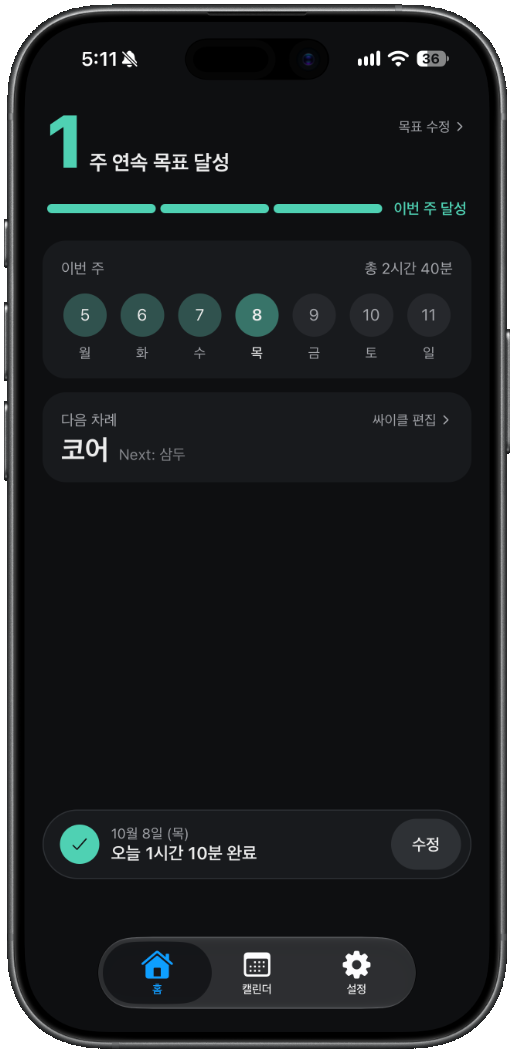
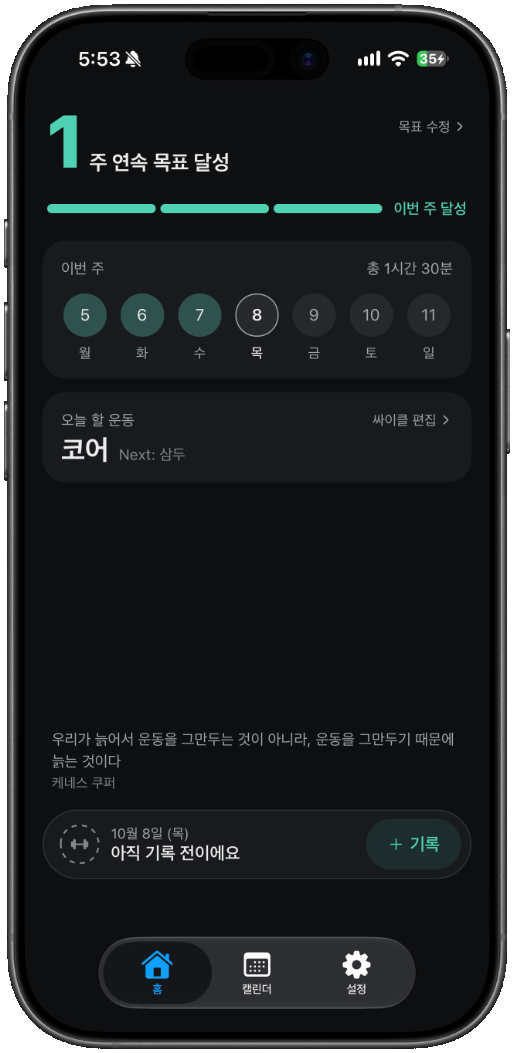
feat : README 파일 변경

diff --git a/README.md b/README.md
@@ -37,137 +37,80 @@
 운동 기록 앱은 대부분 세트, 무게, 횟수까지 입력해야 해서 며칠 쓰다 보면 기록 자체가 귀찮아집니다.
 스탬핏은 **"오늘 운동했는지"** 에만 집중합니다. 운동한 부위와 시간만 고르면 기록이 끝나고, 그날 캘린더에 도장이 찍힙니다.
 
-- 기록 항목은 부위, 부위별 시간, 강도, 컨디션, 메모가 전부입니다.
-- 주간 목표를 정하면 목표를 채운 주가 연속으로 이어지는지 보여줍니다.
-- 오프라인에서도 바로 기록되고, 온라인 연결 시 로그인한 계정으로 서버에 동기화됩니다.
-- iOS / Android 홈 화면 위젯을 지원합니다.
-
 <br />
 
 ## 주요 기능
 
-### 1. 3초 기록과 도장
+### 1. 10초 기록과 도장
 
-<table>
-  <tr>
-    <td align="center"><img src="./docs/screenshots/record.png" width="220" /></td>
-    <td align="center"><img src="./docs/screenshots/record-done.png" width="220" /></td>
-  </tr>
-  <tr>
-    <td align="center">부위 · 시간 · 강도 · 컨디션 입력</td>
-    <td align="center">저장하면 DONE 도장</td>
-  </tr>
-</table>
+<p align="center">
+  <img src="./docs/captioned/record.png" width="220" />&nbsp;&nbsp;
+  <img src="./docs/captioned/record-done.png" width="220" />
+</p>
 
-- 부위 칩을 여러 개 고르고, 부위마다 시간을 따로 기록 (빠른 선택 10~90분, ±5분 조절)
-- 강도 1~5단계, 컨디션 5단계 이모지, 자유 메모
-- 날짜당 기록 1건. 이미 기록한 날을 열면 수정 화면으로 열림
-- 저장 순간 도장이 찍히는 애니메이션 (react-native-svg + Reanimated)
+- 부위를 고르고 부위마다 시간만 정하면 기록이 끝납니다.
+- 저장하는 순간 그날 캘린더에 도장이 찍히는 효과가 나옵니다.
 
 ### 2. 홈 — 주간 목표와 연속 달성
 
-<table>
-  <tr>
-    <td align="center"><img src="./docs/screenshots/home.png" width="200" /></td>
-    <td align="center"><img src="./docs/screenshots/home-done.png" width="200" /></td>
-    <td align="center"><img src="./docs/screenshots/goal.png" width="200" /></td>
-    <td align="center"><img src="./docs/screenshots/cycle.png" width="200" /></td>
-  </tr>
-  <tr>
-    <td align="center">기록 전</td>
-    <td align="center">기록 후 · 목표 달성</td>
-    <td align="center">주간 목표 설정</td>
-    <td align="center">운동 싸이클</td>
-  </tr>
-</table>
+<p align="center">
+  <img src="./docs/captioned/home.png" width="200" />&nbsp;&nbsp;
+  <img src="./docs/captioned/home-done.png" width="200" />&nbsp;&nbsp;
+  <img src="./docs/captioned/goal.png" width="200" />&nbsp;&nbsp;
+  <img src="./docs/captioned/cycle.png" width="200" />
+</p>
 
-- **주간 목표**: 주 N회 목표를 정하고 "매주 반복" 여부 선택. 목표를 채운 주가 몇 주 연속인지 표시
-- 목표를 바꿔도 지난주는 그 주에 설정했던 목표로 판정 (주별 목표 이력 저장)
-- **운동 싸이클**: 하체 → 가슴 → 등처럼 분할 순서를 정해두면, 기록할 때마다 다음 단계로 넘어가며 오늘 할 운동과 다음 차례를 알려줌
-- 이번 주 7일 잔디와 오늘 기록 상태, 기록 전에는 오늘의 운동 명언 표시
+- 주 N회 목표를 정하면 목표를 채운 주가 몇 주 연속인지 보여줍니다.
+- 운동 싸이클(예: 하체 → 가슴 → 등)을 정해두면 기록할 때마다 오늘 할 운동을 알려줍니다.
 
 ### 3. 캘린더 · 히트맵 · 통계
 
-<table>
-  <tr>
-    <td align="center"><img src="./docs/screenshots/calendar.png" width="220" /></td>
-    <td align="center"><img src="./docs/screenshots/heatmap.png" width="220" /></td>
-    <td align="center"><img src="./docs/screenshots/stats.png" width="220" /></td>
-  </tr>
-  <tr>
-    <td align="center">월간 캘린더</td>
-    <td align="center">연간 히트맵</td>
-    <td align="center">월간 통계</td>
-  </tr>
-</table>
+<p align="center">
+  <img src="./docs/captioned/calendar.png" width="220" />&nbsp;&nbsp;
+  <img src="./docs/captioned/heatmap.png" width="220" />&nbsp;&nbsp;
+  <img src="./docs/captioned/stats.png" width="220" />
+</p>
 
-- **캘린더**: 스와이프로 월 이동, 날짜를 누르면 그날 기록(부위별 시간·강도·컨디션) 확인 및 수정·삭제, 지난 날짜 기록 추가
-- **히트맵**: 1년치 기록을 깃허브 잔디처럼 표시. 강도 × 시간 점수로 4단계 농도 구분
-- **통계**: 전월 대비 운동 시간, 총 운동 시간·출석 일수·주 평균 횟수, 평균 강도·컨디션, 부위별 비중
+- **캘린더**: 날짜를 누르면 그날 기록을 보고 수정·삭제할 수 있습니다.
+- **히트맵**: 1년치 기록을 깃허브 잔디처럼, 운동량이 많은 날일수록 진하게 표시됩니다.
+- **통계**: 이번 달 운동량과 전월 대비 변화, 부위별 비중을 보여줍니다.
 
 ### 4. 월간 리포트 카드
 
-<table>
-  <tr>
-    <td align="center"><img src="./docs/screenshots/monthly-card.png" width="220" /></td>
-    <td>
-      <ul>
-        <li>한 달 기록을 카드 한 장으로 요약 (총 운동 시간, 운동 일수, 주 평균, 평균 강도, TOP 부위)</li>
-        <li>카드를 이미지로 캡처해 <b>사진첩 저장</b> 또는 <b>SNS 공유</b></li>
-        <li>react-native-view-shot, expo-media-library, expo-sharing 사용</li>
-      </ul>
-    </td>
-  </tr>
-</table>
+<p align="center">
+  <img src="./docs/captioned/monthly-card.png" width="220" />
+</p>
+
+- 한 달 기록을 카드 한 장으로 정리해 사진첩에 저장하거나 SNS에 공유할 수 있습니다.
 
 ### 5. 부위 관리
 
-<table>
-  <tr>
-    <td align="center"><img src="./docs/screenshots/parts.png" width="220" /></td>
-    <td align="center"><img src="./docs/screenshots/parts-edit.png" width="220" /></td>
-  </tr>
-  <tr>
-    <td align="center">추가 · 밀어서 삭제 · 숨김</td>
-    <td align="center">편집 모드에서 드래그로 순서 변경</td>
-  </tr>
-</table>
+<p align="center">
+  <img src="./docs/captioned/parts.png" width="220" />&nbsp;&nbsp;
+  <img src="./docs/captioned/parts-edit.png" width="220" />
+</p>
 
-- 기본 부위 7개(하체, 가슴, 등, 어깨, 팔, 코어, 유산소)에 원하는 부위를 자유롭게 추가
-- 끈 부위는 기록 화면에서만 숨겨지고 지난 기록은 그대로 유지
+- 기본 7개 부위에 원하는 부위를 추가할 수 있고, 안 쓰는 부위는 꺼서 숨길 수 있습니다.
 
 ### 6. 홈 화면 위젯
-<table>
-  <tr>
-    <td align="center"><img src="./docs/screenshots/widget1.png" width="220" /></td>
-    <td align="center"><img src="./docs/screenshots/widget2.png" width="220" /></td>
-  </tr>
-  <tr>
-    <td align="center">ios 위젯 small</td>
-    <td align="center">ios 위젯 big</td>
-  </tr>
-</table>
 
-- 앱을 열지 않고 연속 달성 주, 오늘 기록 여부, 오늘·다음 싸이클 단계, 이번 주 잔디를 확인
-- iOS는 `expo-widgets` + `@expo/ui`(SwiftUI), Android는 **Jetpack Glance로 직접 만든 Expo 로컬 모듈**(`modules/workout-widget`)
-- 3일치 타임라인을 미리 넘겨두어 앱을 열지 않아도 자정마다 위젯이 갱신됨
+<p align="center">
+  <img src="./docs/captioned/widget1.png" width="220" />&nbsp;&nbsp;
+  <img src="./docs/captioned/widget2.png" width="220" />
+</p>
+
+- 앱을 열지 않고도 연속 달성 주, 오늘 기록 여부, 다음 운동을 확인할 수 있습니다.
+- iOS와 Android 모두 지원하며, Android 위젯은 Kotlin + Jetpack Glance로 직접 구현했습니다.
 
 ### 7. 로그인 · 계정
 
-<table>
-  <tr>
-    <td align="center"><img src="./docs/screenshots/login.png" width="220" /></td>
-    <td align="center"><img src="./docs/screenshots/settings.png" width="220" /></td>
-  </tr>
-  <tr>
-    <td align="center">로그인</td>
-    <td align="center">설정</td>
-  </tr>
-</table>
+<p align="center">
+  <img src="./docs/captioned/login.png" width="220" />&nbsp;&nbsp;
+  <img src="./docs/captioned/settings.png" width="220" />
+</p>
 
-- Apple, Google, 이메일 로그인 (Supabase Auth)
-- 로그아웃 전 서버에 아직 올라가지 않은 기록이 있으면 개수를 알려줌
-- 회원 탈퇴 시 계정과 모든 운동 기록을 함께 삭제
+- Apple, Google, 이메일로 로그인할 수 있습니다.
+- 기록은 기기에 먼저 저장된 뒤 계정으로 동기화되어, 오프라인에서도 쓸 수 있습니다.
 
 <br />
 
@@ -175,15 +118,15 @@
 
 | 구분 | 사용 기술 |
 | --- | --- |
-| Framework | Expo SDK 57, React Native 0.86 (New Architecture), React 19, TypeScript |
+| Framework | Expo SDK 57, React Native 0.86, TypeScript 
 | Navigation | Expo Router (iOS는 NativeTabs로 네이티브 탭 바 사용) |
 | Styling | NativeWind (Tailwind CSS) |
 | State | Zustand |
 | Local DB | expo-sqlite |
-| Backend | Supabase (Auth, PostgreSQL, Row Level Security) |
-| Animation | React Native Reanimated 4, react-native-svg |
+| Backend | Supabase |
+| Animation | React Native Reanimated , react-native-svg |
 | Widget | iOS: expo-widgets + @expo/ui (SwiftUI) / Android: Jetpack Glance (Kotlin) |
-| 기타 | react-native-view-shot, expo-sharing, expo-media-library, expo-haptics, burnt (네이티브 토스트), react-native-draggable-flatlist |
+| 기타 | react-native-view-shot, expo-sharing, expo-media-library, expo-haptics, burnt , react-native-draggable-flatlist |
 
 <br />
 
